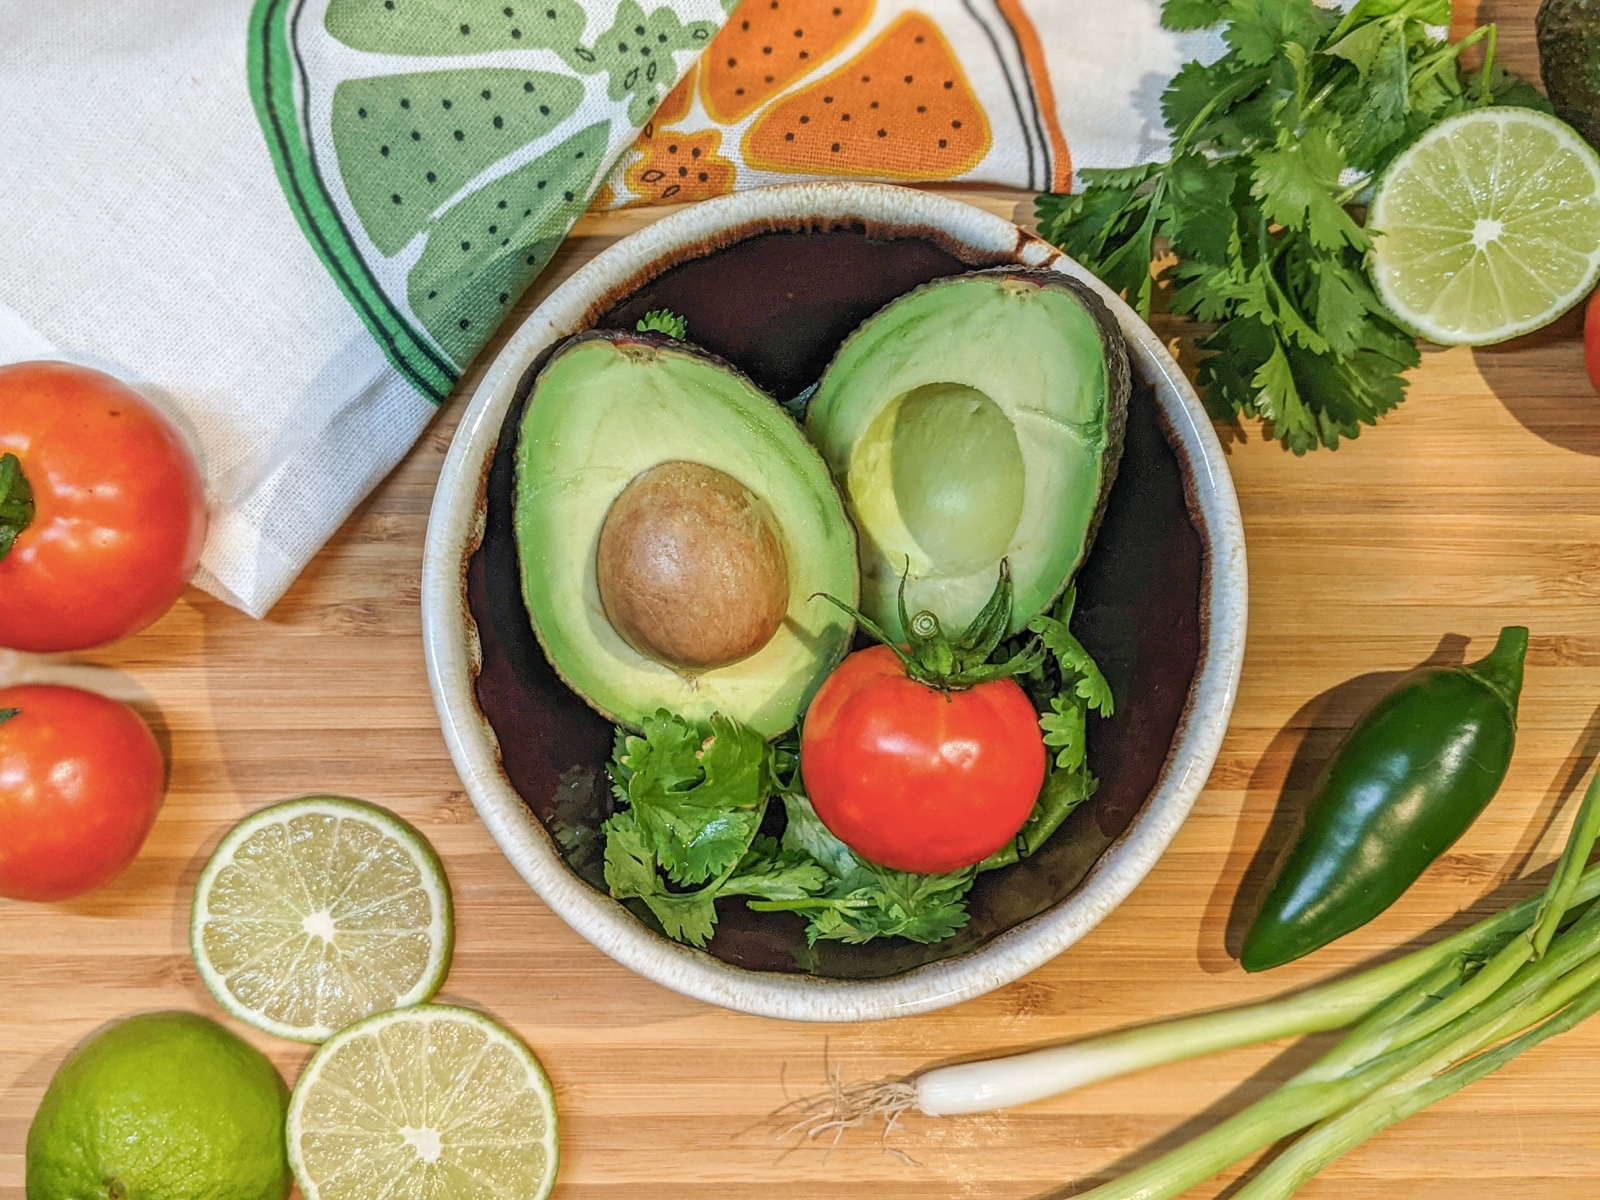
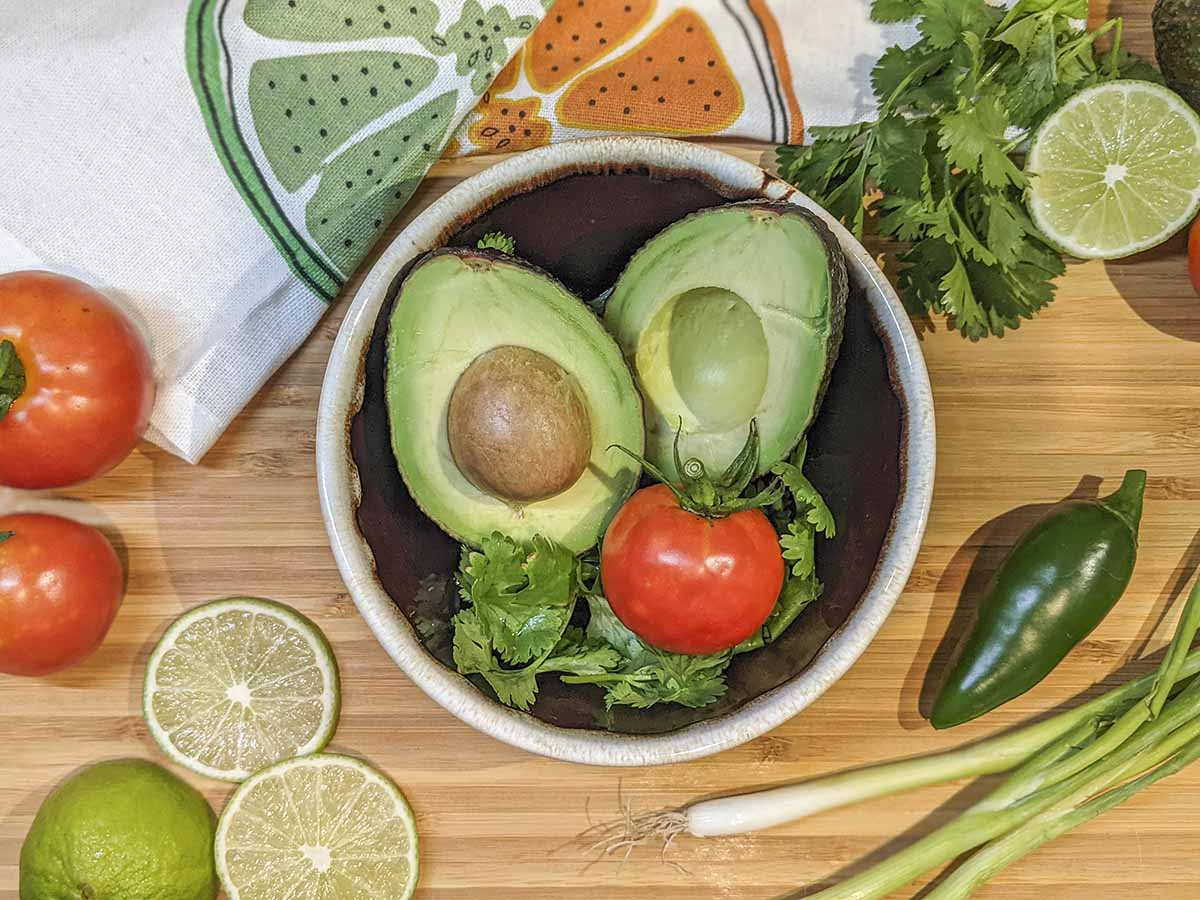
resized images to be smaller, added other dimensions, updated guac recipe for recipe schema

diff --git a/content/recipies/guacamole.md b/content/recipies/guacamole.md
@@ -1,8 +1,11 @@
 +++
 date = "2021-07-18"
-title = "The Freaking Best Guacamole Recipe Ever"
+title = "The World's Best Guacamole Recipe"
 tags = ["recipe", "guacamole", "avocado", "spicy"]
 description = "Sharing my secret guacamole recipe that's been battle tested for years."
+image1x1 = "/uploads/1x1/guacamole.jpg"
+image4x3 = "/uploads/4x3/guacamole.jpg"
+image16x9 = "/uploads/16x9/guacamole.jpg"
 draft = false
 layout = "recipe"
 [cover]
